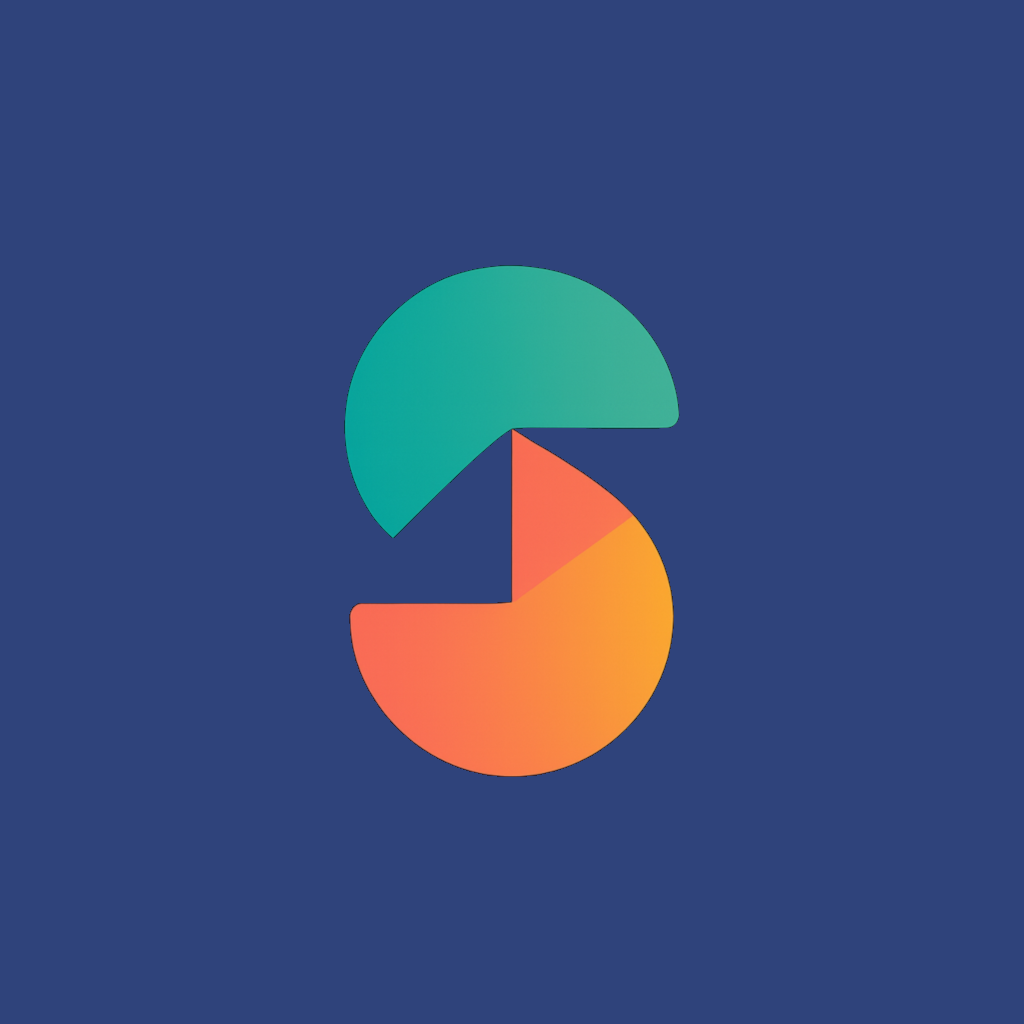
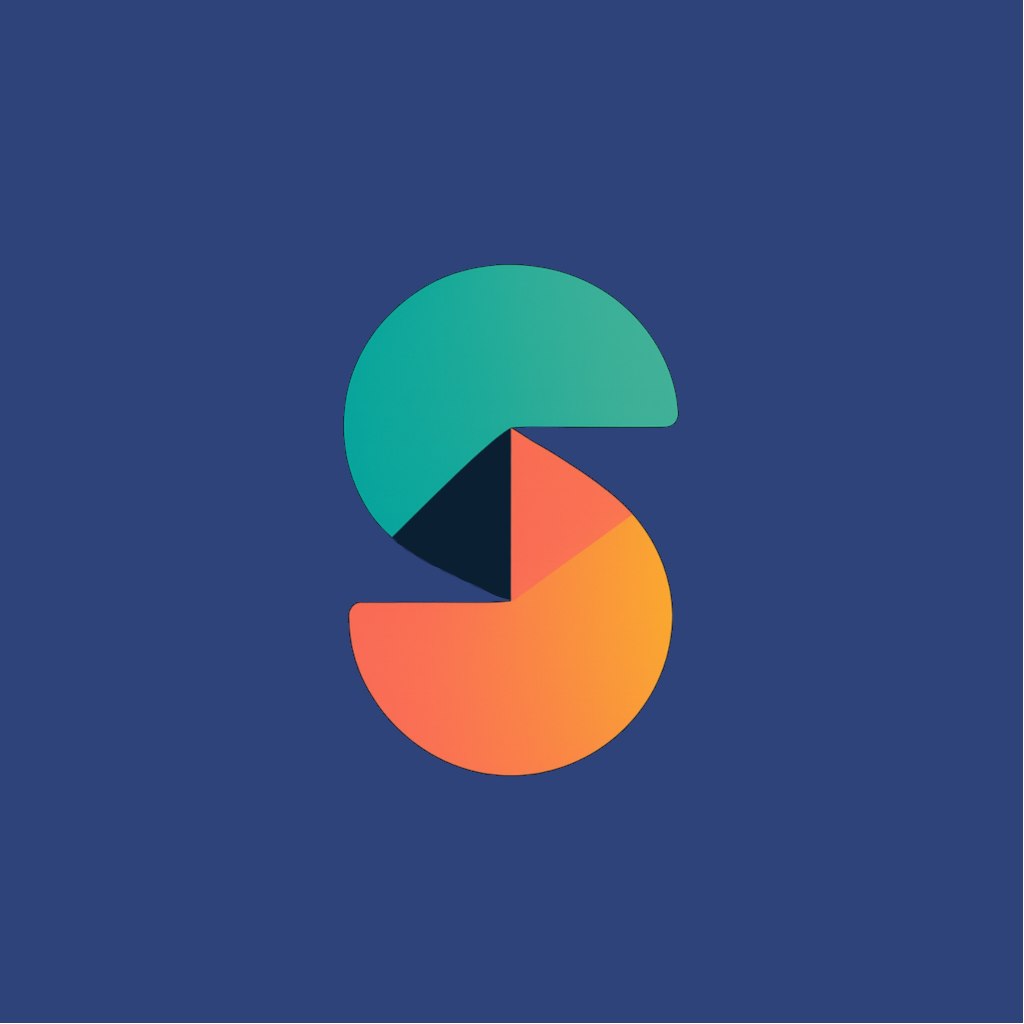
Update images and backgroud color of splash screen.

Changed region(s): [[0.375, 0.4062, 0.5312, 0.5938], [0.625, 0.6562, 0.6562, 0.6875], [0.5625, 0.7188, 0.5938, 0.75]]

diff --git a/app.config.ts b/app.config.ts
@@ -31,7 +31,7 @@ export default ({ config }: ConfigContext): ExpoConfig => ({
             {
                 image: "./assets/splash-icon.png",
                 resizeMode: "contain",
-                backgroundColor: "#0F172A"
+                backgroundColor: "#2F437B"
             }
         ],
         [
